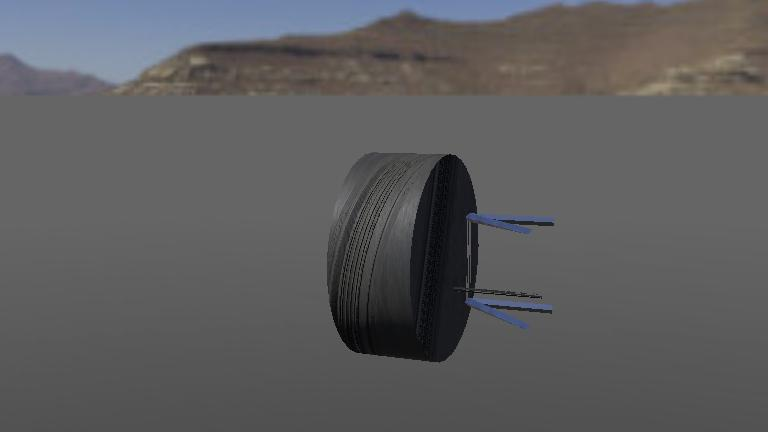
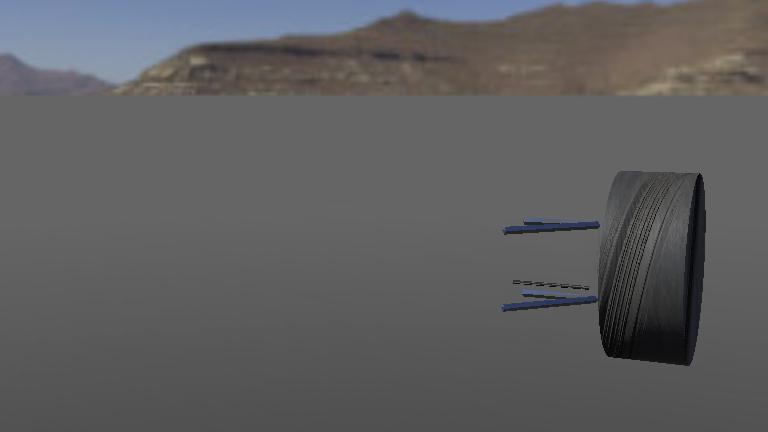
Stuck on CarBuilder Bug

Changed region(s): [[0.4062, 0.331, 0.9375, 0.8426]]

diff --git a/controllers/CarBuilder/CarBuilder.py b/controllers/CarBuilder/CarBuilder.py
@@ -24,17 +24,15 @@ with open(r'C:\Users\minhk\OneDrive\Desktop\DriveLab\WeCars\car_files\mr2.json')
 #Calculate "SingleSuspension" Width 
 
 corner_width = data["wheel_anchor"][1]+data["tire_width"]
-print(corner_width)
 #Calculate "SingleSuspension" X Offset
 x_offset = data["wheel_anchor"][0]
-print(x_offset)
 #Generate Min-Box (Box with mass of simulated car, allowing for 4 wheels to place wheels at edges)
-length = data["wheelbase"]-2*x_offset
+length = data["wheelbase"]-2*x_offset 
+print(length)
 width = data["trackwidth"]-2*corner_width
+print(width)
 height = 2/3
 
-
-        
 #Generate Contact Properties
 
 contact_field.importMFNodeFromString(0,'ContactProperties { material1 "frontleft_contact"}')
@@ -44,119 +42,114 @@ contact_field.importMFNodeFromString(0,'ContactProperties { material1 "rearright
 
 
 #Generate Front Left and place
-
+'''
 children_field.importMFNodeFromString(0, 'SingleSuspension {cornerID "frontleft"}')
 
 frontLeft = robot.getFromDef('frontleft_corner_anchor')
 if frontLeft == None:
     sys.exit(1)
-FL_location = frontLeft.getField('cornerPose')
-if FL_location == None:
+fl_location = frontLeft.getField('cornerPose')
+if fl_location == None:
     sys.exit(1)
-FL_newLoc = [length/2, width/2, 0]
-FL_location.setSFVec3f(FL_newLoc)
+fl_newLoc = [length/2, width/2, 0]
+fl_location.setSFVec3f(fl_newLoc)
 
-FL_UPF = frontLeft.getField('UpperFrontPickupPoint')
-FL_UPR = frontLeft.getField('UpperRearPickupPoint')
-FL_LWF = frontLeft.getField('LowerFrontPickupPoint')
-FL_LWR = frontLeft.getField('LowerRearPickupPoint')
-FL_TRP = frontLeft.getField('TieRodPickupPoint')
-FL_TRAP = frontLeft.getField('TieRodAttachmentPoint')
-FL_LBJ = frontLeft.getField('LowerBallJoint')
-FL_UBJ = frontLeft.getField('UpperBallJoint')
-FL_WHA = frontLeft.getField('WheelAnchor')
+fl_UPF = frontLeft.getField('UpperFrontPickupPoint')
+fl_UPR = frontLeft.getField('UpperRearPickupPoint')
+fl_LWF = frontLeft.getField('LowerFrontPickupPoint')
+fl_LWR = frontLeft.getField('LowerRearPickupPoint')
+fl_TRP = frontLeft.getField('TieRodPickupPoint')
+fl_TRAP = frontLeft.getField('TieRodAttachmentPoint')
+fl_LBJ = frontLeft.getField('LowerBallJoint')
+fl_UBJ = frontLeft.getField('UpperBallJoint')
+fl_WHA = frontLeft.getField('WheelAnchor')
 
-FL_UPF.setSFVec3f(data["upper_front_location"])
-FL_UPR.setSFVec3f(data["upper_rear_location"])
-FL_LWF.setSFVec3f(data["lower_front_location"])
-FL_LWR.setSFVec3f(data["lower_rear_location"])
-FL_TRP.setSFVec3f(data["tie_rod_pickup"])
-FL_TRAP.setSFVec3f(data["tie_rod_upright_attachment"])
-FL_LBJ.setSFVec3f(data["lower_balljoint"])
-FL_UBJ.setSFVec3f(data["upper_balljoint"])
-FL_WHA.setSFVec3f(data["wheel_anchor"])
-
-
-
-'''while robot.step(timestep) != -1 :
-    simtime += timestep/100
-    if simtime < 2:'''
-
+fl_UPF.setSFVec3f(data["upper_front_location"])
+fl_UPR.setSFVec3f(data["upper_rear_location"])
+fl_LWF.setSFVec3f(data["lower_front_location"])
+fl_LWR.setSFVec3f(data["lower_rear_location"])
+fl_TRP.setSFVec3f(data["tie_rod_pickup"])
+fl_TRAP.setSFVec3f(data["tie_rod_upright_attachment"])
+fl_LBJ.setSFVec3f(data["lower_balljoint"])
+fl_UBJ.setSFVec3f(data["upper_balljoint"])
+fl_WHA.setSFVec3f(data["wheel_anchor"])
+'''
 
 
 
 
 #Generate Front Right, Flipping Y cords of suspension, then place
-children_field.importMFNodeFromString(0, 'SingleSuspension {cornerID "frontright" }')
+children_field.importMFNodeFromString(0, 'SingleSuspension {cornerID "frontright"}')
 
 frontRight = robot.getFromDef('frontright_corner_anchor')
+fr_location = frontRight.getField('cornerPose')
+fr_newLoc = [length/2, -width/2, 0]
+fr_location.setSFVec3f(fr_newLoc)
 
-FR_location = frontRight.getField('cornerPose')
-FR_newLoc = [length/2, -width/2, 0]
-FR_location.setSFVec3f(FR_newLoc)
+fr_UPF = frontRight.getField('UpperFrontPickupPoint')
+fr_UPR = frontRight.getField('UpperRearPickupPoint')
+fr_LWF = frontRight.getField('LowerFrontPickupPoint')
+fr_LWR = frontRight.getField('LowerRearPickupPoint')
+fr_TRP = frontRight.getField('TieRodPickupPoint')
+fr_TRAP = frontRight.getField('TieRodAttachmentPoint')
+fr_LBJ = frontRight.getField('LowerBallJoint')
+fr_UBJ = frontRight.getField('UpperBallJoint')
+fr_WHA = frontRight.getField('WheelAnchor')
+#fr_TRAP.setSFVec3f([-0.1,-0.2,0.05])
+'''
+fr_TRAP.setSFVec3f(cO.mirrorY(data["tie_rod_upright_attachment"]))
+print(cO.mirrorY(data["tie_rod_upright_attachment"]))
+fr_LBJ.setSFVec3f(cO.mirrorY(data["lower_balljoint"]))
+fr_UBJ.setSFVec3f(cO.mirrorY(data["upper_balljoint"]))
+fr_WHA.setSFVec3f(cO.mirrorY(data["wheel_anchor"]))
+fr_UPF.setSFVec3f(cO.mirrorY(data["upper_front_location"]))
+fr_UPR.setSFVec3f(cO.mirrorY(data["upper_rear_location"]))
+fr_LWF.setSFVec3f(cO.mirrorY(data["lower_front_location"]))
+fr_LWR.setSFVec3f(cO.mirrorY(data["lower_rear_location"]))
+fr_TRP.setSFVec3f(cO.mirrorY(data["tie_rod_pickup"]))
 
-FR_UPF = frontRight.getField('UpperFrontPickupPoint')
-FR_UPR = frontRight.getField('UpperRearPickupPoint')
-FR_LWF = frontRight.getField('LowerFrontPickupPoint')
-FR_LWR = frontRight.getField('LowerRearPickupPoint')
-FR_TRP = frontRight.getField('TieRodPickupPoint')
-FR_TRAP = frontRight.getField('TieRodAttachmentPoint')
-FR_LBJ = frontRight.getField('LowerBallJoint')
-FR_UBJ = frontRight.getField('UpperBallJoint')
-FR_WHA = frontRight.getField('WheelAnchor')
+'''
 
-m_UPF = cO.mirrorY(data["upper_front_location"])
-m_UPR = cO.mirrorY(data["upper_rear_location"])
-m_LWF = cO.mirrorY(data["lower_front_location"])
-m_LWR = cO.mirrorY(data["lower_rear_location"])
-m_TRP = cO.mirrorY(data["tie_rod_pickup"])
-m_TRAP = cO.mirrorY(data["tie_rod_upright_attachment"])
-print(m_TRAP)
-m_LBJ = cO.mirrorY(data["lower_balljoint"])
-m_UBJ = cO.mirrorY(data["upper_balljoint"])
-m_WHA = cO.mirrorY(data["wheel_anchor"])
-
-FR_TRP.setSFVec3f(m_TRP)
-FR_UPF.setSFVec3f(m_UPF)
-FR_UPR.setSFVec3f(m_UPR)
-FR_LWF.setSFVec3f(m_LWF)
-FR_LWR.setSFVec3f(m_LWR)
-FR_LBJ.setSFVec3f(m_LBJ)
-FR_UBJ.setSFVec3f(m_UBJ)
-#FR_TRAP.setSFVec3f(m_TRAP)
-FR_LBJ.setSFVec3f(m_LBJ)
-FR_UBJ.setSFVec3f(m_UBJ)
-FR_WHA.setSFVec3f(m_WHA)
+#fr_LBJ.setSFVec3f(m_LBJ)
+#fr_TRP.setSFVec3f(m_TRP)
+#fr_UPF.setSFVec3f(m_UPF)
+#fr_UPR.setSFVec3f(m_UPR)
+#fr_LWF.setSFVec3f(m_LWF)
+#fr_LWR.setSFVec3f(m_LWR)
+#fr_UBJ.setSFVec3f(m_UBJ)
+#fr_TRAP.setSFVec3f(m_TRAP)
+#fr_WHA.setSFVec3f(m_WHA)
 
 
 #Generate Rear Left,
-'''children_field.importMFNodeFromString(0, 'SingleSuspension {cornerID "rearleft"}')
+'''
+children_field.importMFNodeFromString(0, 'SingleSuspension {cornerID "rearleft"}')
 
 rearLeft = robot.getFromDef('rearleft_corner_anchor')
-RL_location = rearLeft.getField('cornerPose')
-RL_newLoc = [-length/2, width/2, 0]
-RL_location.setSFVec3f(RL_newLoc)
+fl_location = rearLeft.getField('cornerPose')
+fl_newLoc = [-length/2, width/2, 0]
+fl_location.setSFVec3f(fl_newLoc)
 
-RL_UPF = rearLeft.getField('UpperFrontPickupPoint')
-RL_UPR = rearLeft.getField('UpperRearPickupPoint')
-RL_LWF = rearLeft.getField('LowerFrontPickupPoint')
-RL_LWR = rearLeft.getField('LowerRearPickupPoint')
-RL_TRP = rearLeft.getField('TieRodPickupPoint')
-RL_TRAP = rearLeft.getField('TieRodAttachmentPoint')
-RL_LBJ = rearLeft.getField('LowerBallJoint')
-RL_UBJ = rearLeft.getField('UpperBallJoint')
-RL_WHA = rearLeft.getField('WheelAnchor')
+fl_UPF = rearLeft.getField('UpperFrontPickupPoint')
+fl_UPR = rearLeft.getField('UpperRearPickupPoint')
+fl_LWF = rearLeft.getField('LowerFrontPickupPoint')
+fl_LWR = rearLeft.getField('LowerRearPickupPoint')
+fl_TRP = rearLeft.getField('TieRodPickupPoint')
+fl_TRAP = rearLeft.getField('TieRodAttachmentPoint')
+fl_LBJ = rearLeft.getField('LowerBallJoint')
+fl_UBJ = rearLeft.getField('UpperBallJoint')
+fl_WHA = rearLeft.getField('WheelAnchor')
 
-RL_UPF.setSFVec3f(data["upper_front_location"])
-RL_UPR.setSFVec3f(data["upper_rear_location"])
-RL_LWF.setSFVec3f(data["lower_front_location"])
-RL_LWR.setSFVec3f(data["lower_rear_location"])
-RL_TRP.setSFVec3f(data["tie_rod_pickup"])
-RL_TRAP.setSFVec3f(data["tie_rod_upright_attachment"])
-RL_LBJ.setSFVec3f(data["lower_balljoint"])
-RL_UBJ.setSFVec3f(data["upper_balljoint"])
-RL_WHA.setSFVec3f(data["wheel_anchor"])
-
+fl_UPF.setSFVec3f(data["upper_front_location"])
+fl_UPR.setSFVec3f(data["upper_rear_location"])
+fl_LWF.setSFVec3f(data["lower_front_location"])
+fl_LWR.setSFVec3f(data["lower_rear_location"])
+fl_TRP.setSFVec3f(data["tie_rod_pickup"])
+fl_TRAP.setSFVec3f(data["tie_rod_upright_attachment"])
+fl_LBJ.setSFVec3f(data["lower_balljoint"])
+fl_UBJ.setSFVec3f(data["upper_balljoint"])
+fl_WHA.setSFVec3f(data["wheel_anchor"])'''
+'''
 
 #Generate Rear Right
 children_field.importMFNodeFromString(0, 'SingleSuspension {cornerID "rearright"}')

diff --git a/extra_scripts/SuspGraphGenerator.py b/extra_scripts/SuspGraphGenerator.py
@@ -17,12 +17,15 @@ for i in range(280):
     cmb1.append(np.degrees(cmb[i]))
     toe1.append(np.degrees(toe[i]))
 
-o_cmb = 300*(2*np.pi)
+o_cmb = 14400*(2*np.pi)
+alt_cmb = 1200*(2*np.pi)
 o_toe = 300*2*np.pi
-sp_cmb = 0.0000005
+sp_cmb = 0.000005
 sp_toe = 0.0005
 filtered_cmb = fl.firstOrderFilter(bmp1, cmb1, o_cmb, sp_cmb)
+alt_filtered_cmb = fl.firstOrderFilter(bmp1, cmb1, alt_cmb, sp_cmb)
 filtered_toe = fl.firstOrderFilter(bmp1, toe1, o_toe, sp_toe)
+pp_alt = fl.postProcess(alt_filtered_cmb, 2)
 pp_cmb = fl.postProcess(filtered_cmb, 2)
 pp_toe = fl.postProcess(filtered_toe, 8)
 
@@ -32,16 +35,19 @@ pp_toe = fl.postProcess(filtered_toe, 8)
 
 figure, ax1 = subplots()
 #ax1.plot(bmp1[0: len(bmp1)-2], pp_cmb, label = 'sanity check', color = 'orange')
-ax1.plot(bmp1[0: len(bmp1)-2],pp_cmb, label = 'Filter + PP', color = 'blue')
-figure.supxlabel('Bump Travel (cm)')
-figure.supylabel('Camber (Degrees)')
+ax1.plot(cmb1[0:len(cmb1)-2],bmp1[0: len(bmp1)-2], label = 'Filter + PP', color = 'orange')
+ax1.plot(pp_cmb,bmp1[0: len(bmp1)-2], label = 'Filter + PP', color = 'blue')
+ax1.plot(pp_alt,bmp1[0: len(bmp1)-2], label = 'Filter + PP', color = 'green')
+figure.supylabel('Bump Travel (cm)')
+figure.supxlabel('Camber (Degrees)')
+ax1.spines['bottom'].set_position('center')
 figure.legend()
 tight_layout()
 
 figure, ax2 = subplots(1)
 ax2.plot(pp_toe,bmp1[0: len(bmp1)-8], label = 'Filter + PP', color = 'blue')
-figure.supxlabel('Bump Travel (cm)')
-figure.supylabel('Toe (Degrees)')
+figure.supylabel('Bump Travel (cm)')
+figure.supxlabel('Toe (Degrees)')
 ax2.spines['bottom'].set_position('center')
 figure.legend()
 tight_layout()

diff --git a/controllers/Archive/LoadSmartTire/transformations.py b/controllers/Archive/LoadSmartTire/transformations.py
@@ -1,6 +1,6 @@
 import numpy as np
-""""Shamelessly copied from the https://alexanderallenbrown.github.io/ES302_FA24_Students/05_Coordinates_Frames/ 
-    Thank you so much for this Doc"""
+""""Code borrowed from the https://alexanderallenbrown.github.io/ES302_FA24_Students/05_Coordinates_Frames/ 
+    Thank you for allowing me to use your work"""
 def create3DRotationAB(theta,axis):
     """ Create a 3D rotation matrix AB_R (R from A to B ) to express the unit vectors of coordinate system B
         in terms of the unit vectors of coordinate system B for ONE of the principal axes 0,1,2 (x,y,z)
@@ -23,26 +23,7 @@ def createEulerZYXRotation(roll,pitch,yaw):
     Ry = create3DRotationAB(pitch,1)
     Rx = create3DRotationAB(roll,0)
     return np.dot(Rx,Ry,Rz)
-def create2DRotation(theta):
-    return np.array([[np.cos(theta),np.sin(theta)],[-np.sin(theta),np.cos(theta)]])
+
 
 def arrayToMatrix(array):
     return np.array(array).reshape(3,3)
-
-
-def getEulerAngles(array):
-    """ Returns the Euler angles from a rotation matrix"""
-    sy = np.sqrt(array[0,0] * array[0,0] +  array[1,0] * array[1,0])
- 
-    singular = sy < 1e-6
- 
-    if  not singular :
-        x = np.atan2(array[2,1] , array[2,2])
-        y = np.atan2(-array[2,0], sy)
-        z = np.atan2(array[1,0], array[0,0])
-    else :
-        x = np.atan2(-array[1,2], array[1,1])
-        y = np.atan2(-array[2,0], sy)
-        z = 0
- 
-    return np.array([x, y, z])

diff --git a/controllers/StaticTest/carOrganizer.py b/controllers/StaticTest/carOrganizer.py
@@ -6,20 +6,21 @@ def createLocationString(lateral, longitudinal):
     if (abs(lateral) != 1 & abs(longitudinal) != 1):
         raise Exception("Use only 1 or negative 1 for locations")
 
-    if (lateral < 0):
-        R = R+"Right"
-    else:
-        R = R+"Left"
+   
     if (longitudinal < 0):
-        R = R+"Rear"
+        R = R+"rear"
     else:
-        R = R+"Front"
+        R = R+"front"
+    if (lateral < 0):
+        R = R+"right"
+    else:
+        R = R+"left"
     return R 
 
 def calculateDiffRatio(wheelbase,steeringAngle,trackwidth):
     if(steeringAngle == 0):
         return 0.5
-    rightRadius =np.abs(wheelbase/(np.tan(steeringAngle)-trackwidth/2))
+    rightRadius =np.abs( wheelbase/(np.tan(steeringAngle)-trackwidth/2))
     leftRadius = wheelbase/(np.tan(steeringAngle)+trackwidth/2)
 
     return rightRadius/(leftRadius+rightRadius)
@@ -32,7 +33,7 @@ def simulateDifferential(inputTorque, ratio):
 
 
 def mirrorY(vec):
-    u = []
+    u = [0,0,0]
     u[0] = vec[0]
     u[1] = -vec[1]
     u[2] = vec[2]

diff --git a/controllers/SLA_Car/SLA_Car.py b/controllers/SLA_Car/SLA_Car.py
@@ -36,10 +36,12 @@ slipParams = [[mc_nodes[0][0].getField("forceDependentSlip"),
                mc_nodes[0][1].getField("forceDependentSlip")],
               [mc_nodes[1][0].getField("forceDependentSlip"),
                mc_nodes[1][1].getField("forceDependentSlip")]]
-Drives = [[robot.getFromDef(cO.createLocationString(1,1)+"_drive_motor"),
+drives = [[robot.getFromDef(cO.createLocationString(1,1)+"_drive_motor"),
             robot.getFromDef(cO.createLocationString(-1,1)+"_drive_motor")],
             [robot.getFromDef(cO.createLocationString(1,-1)+"_drive_motor"),
              robot.getFromDef(cO.createLocationString(1,-1)+"_drive_motor")]]
+
+
 
 slip = [[0,0],[0,0]]
 

diff --git a/controllers/StaticTest/StaticTest.py b/controllers/StaticTest/StaticTest.py
@@ -31,7 +31,7 @@ timestep = int(robot.getBasicTimeStep())
 
 # You should insert a getDevice-like function in order to get the
 # instance of a device of the robot. Something like:
-motor = robot.getDevice('frontleft_suspension_motor')
+motor = robot.getDevice(' ')
 stmotor = robot.getDevice('steer_left')
 tire_sensor = robot.getDevice('imu')
 steer_sensor = robot.getDevice('frontleft_steerSensor')

diff --git a/extra_scripts/FirstOrderFilter.py b/extra_scripts/FirstOrderFilter.py
@@ -12,7 +12,7 @@ def firstOrderFilter(x, y, omega, T):
         u[i] = a*u[i-1]+b*dy
     return u
 
-
+# the First Order Low-Pass Filter inherently shifts the data forward, this function simply undoes the shift, but cuts off the final datapoints,
 def postProcess(y, shift):
     u = np.zeros(len(y)-shift)
     for i in range(0, len(y)-shift):

diff --git a/extra_scripts/diffTest.py b/extra_scripts/diffTest.py
@@ -4,7 +4,7 @@ import numpy as np
 import carOrganizer as cO
 
 Torque = 300 #N*M 
-angles = np.arange(0,1.57/4, 0.025)
+angles = np.arange(-1.57/4,1.57/4, 0.025)
 print (angles)
 wheelbase = 6 # meters
 trackwidth = 2 # meters
